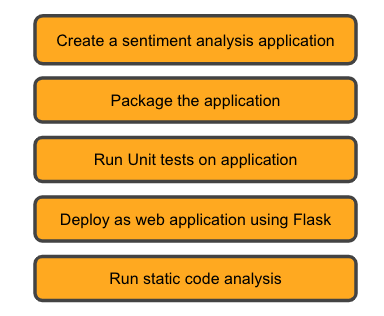
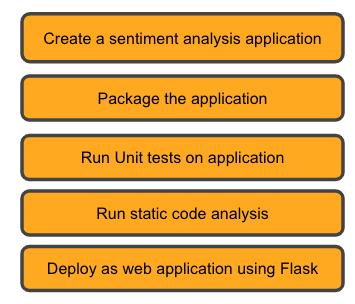
update

diff --git a/_posts/2023-12-01-Sentiment-Analysis-spaCy-Flask.md b/_posts/2023-12-01-Sentiment-Analysis-spaCy-Flask.md
@@ -5,6 +5,7 @@ thumbnail-img: /assets/img/sentiment_analysis.png
 tags: [Project, Full Stack, NLP]
 ---
 ## Highlight
+
 ```
 spaCy, Flask, unit test, static code analysis
 ```
@@ -20,13 +21,25 @@ In this project, we make use of the spaCy, to create an application that would p
 <p class="text-center">Figure 1 Main Steps</p>
 </div>
 
-The main steps for completing this project are shown in Figure 1. And the running code can be found in [GitHub](https://github.com/chennnxu/Project_Sentiment-Analysis-Application-with-Flask.git).
+The main steps for completing this project are shown in Figure 1. And the running code can be found on [GitHub](https://github.com/chennnxu/Project_Sentiment-Analysis-Application-with-Flask.git).
 
 * Step 1 & 2: Create a sentiment analysis application & Package the application
   
 > Create a folder `SentimentAnalysis` (aka **Package**).
   Create two files `__init__.py` and `sentiment_analysis.py` (aka **module**) in the folder, define `sentiment_analysis_func` in `sentiment_analysis.py` file.
 
-* Step 3: Run unit tests on the application
+* Step 3 & 4: Run unit tests on the application & Run static code analysis
 
-> 
+> Create a file `test_sentiment_analysis.py`.
+
+> Check the quality of the code as per the PEP8 guidelines by running static code analysis using `PyLint` library. 
+
+```shell
+pylint  server.py
+```
+
+* Step 5: Deploy as web application using Flask
+
+> Create `*.html` file in `templates` folder and `*.js` file in `static` folder. The purpose is to create the front-end of the application.
+
+> Create `server.py` file.
